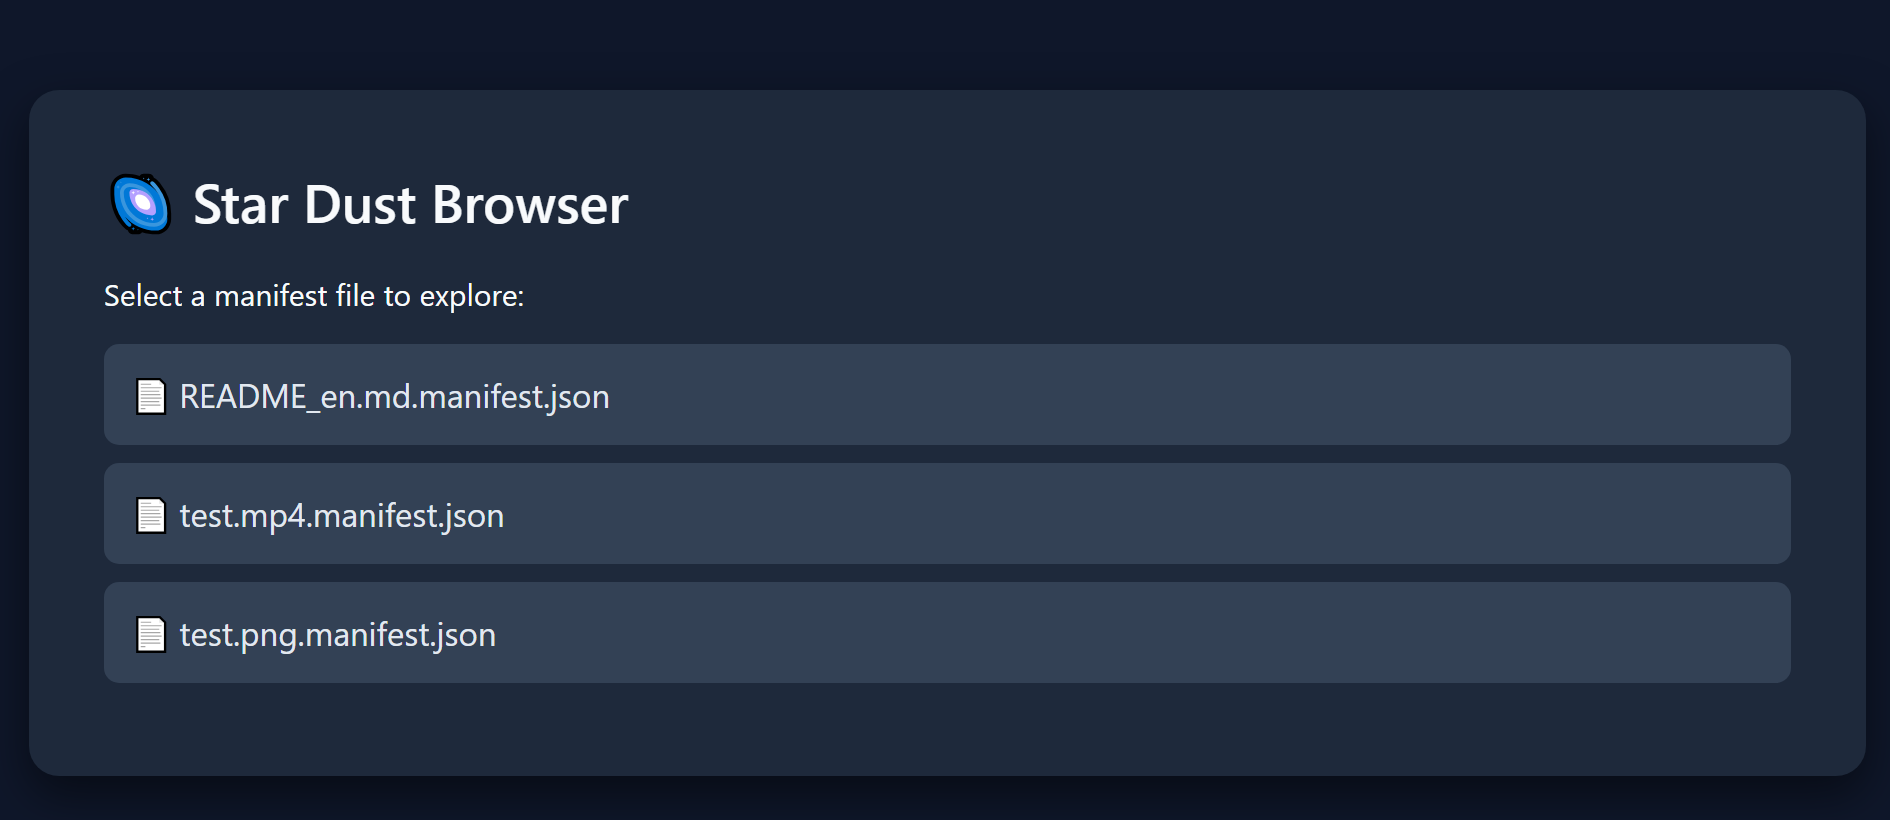
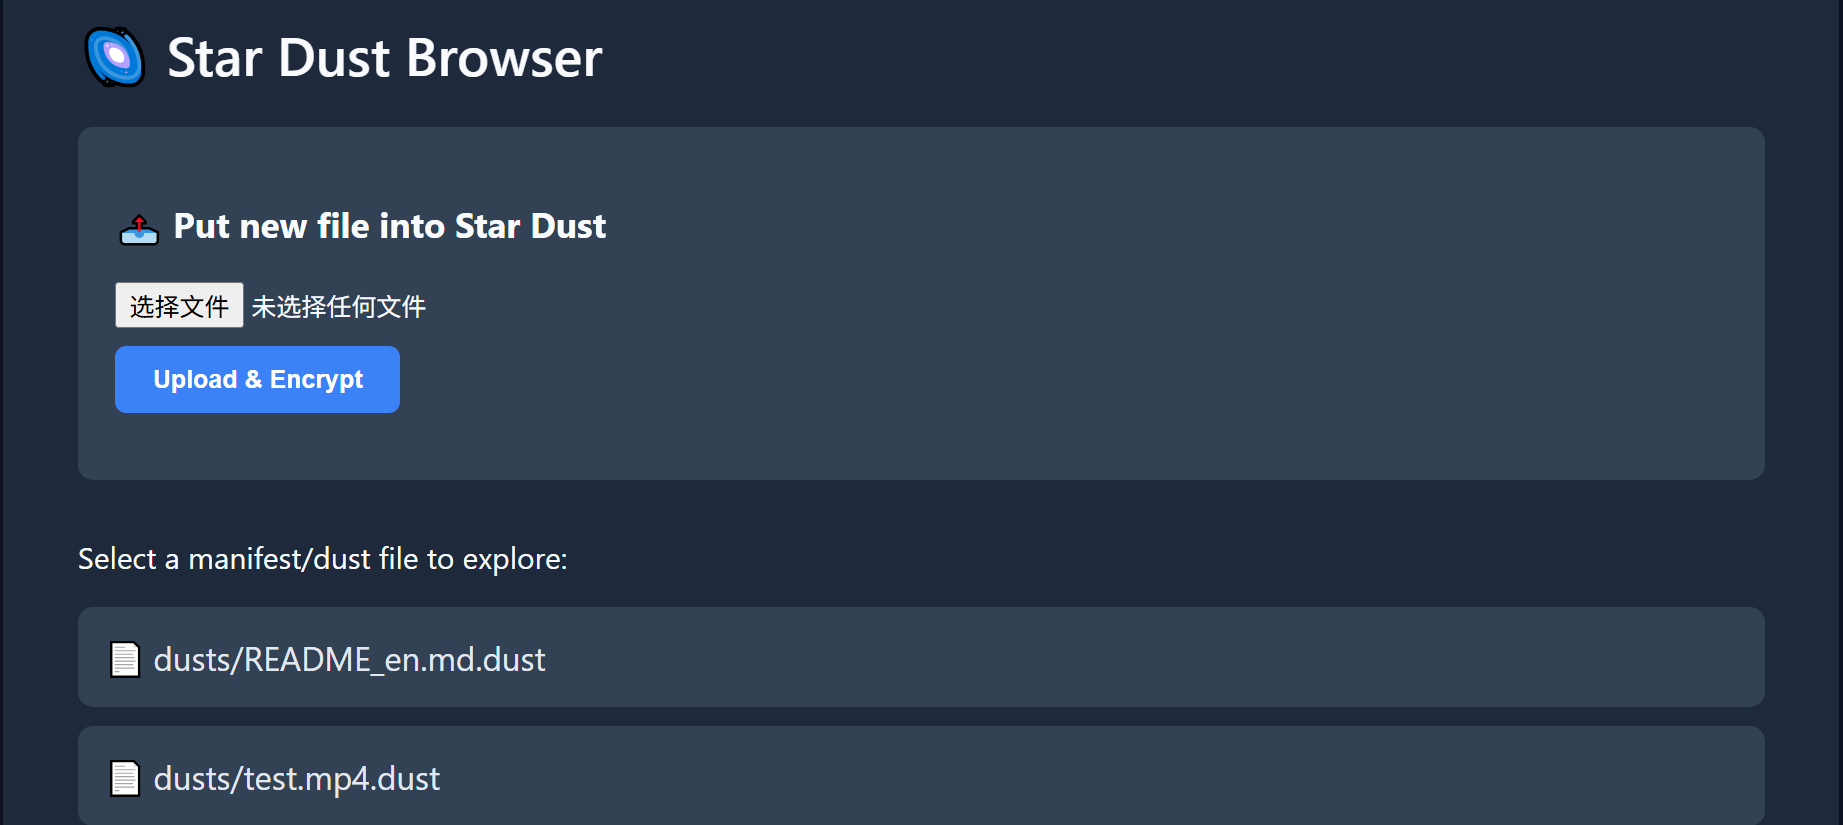
feat: Implement web-based file upload functionality and standardize manifest files to use the .dust extension.

diff --git a/DustBrowser.js b/DustBrowser.js
@@ -5,13 +5,18 @@ import path from 'node:path';
 import axios from 'axios';
 import crypto from 'node:crypto';
 import mime from 'mime';
+import multer from 'multer';
 import { loadOrGenerateKey, decrypt } from './CryptoUtils.js';
+import { uploadToDust } from './FileDustUploader.js';
 
 // ---- Configuration ----
 const PORT = 3000;
 const MAX_CACHE_SIZE = 50; // Cache 50 chunks (approx 4.5MB) to handle fast seeking / range overlapping
 
 let encryptionKey = null;
+let globalPassword = null;
+
+const uploadFolder = multer({ dest: 'uploads/' });
 
 const manifestCache = new Map(); // key: filename, value: { manifest, chunkSize, chunkCache, pendingRequests }
 
@@ -103,16 +108,30 @@ async function getOrInitManifestInfo(manifestFilename) {
 const app = express();
 
 app.get('/', (req, res) => {
-    // List all .manifest.json in current directory
-    const files = fs.readdirSync(process.cwd());
-    const manifests = files.filter(f => f.endsWith('.manifest.json'));
+    // List all .dust / .manifest.json in current directory and dusts directory
+    const manifests = [];
+
+    try {
+        const cwdFiles = fs.readdirSync(process.cwd());
+        const cwdDusts = cwdFiles.filter(f => f.endsWith('.dust') || f.endsWith('.manifest.json'));
+        manifests.push(...cwdDusts);
+    } catch (e) { }
+
+    const dustsDir = path.join(process.cwd(), 'dusts');
+    if (fs.existsSync(dustsDir)) {
+        try {
+            const dFiles = fs.readdirSync(dustsDir);
+            const dDusts = dFiles.filter(f => f.endsWith('.dust') || f.endsWith('.manifest.json'));
+            manifests.push(...dDusts.map(f => `dusts/${f}`));
+        } catch (e) { }
+    }
 
     let listHtml = manifests.map(m => {
         return `<a class="manifest-link" href="/view?m=${encodeURIComponent(m)}">📄 ${m}</a>`;
     }).join('');
 
     if (manifests.length === 0) {
-        listHtml = `<p>No .manifest.json files found in the current directory.</p>`;
+        listHtml = `<p>No .dust files found.</p>`;
     }
 
     res.send(`
@@ -140,6 +159,7 @@ app.get('/', (req, res) => {
                    background: #1e293b; 
                    border-radius: 16px; 
                    box-shadow: 0 10px 25px rgba(0,0,0,0.5); 
+                   margin-bottom: 20px;
                }
                .title { font-size: 1.8rem; font-weight: 600; margin-bottom: 20px; }
                .manifest-link {
@@ -156,17 +176,112 @@ app.get('/', (req, res) => {
                .manifest-link:hover {
                    background: #475569;
                }
+               .upload-box {
+                   background: #334155;
+                   padding: 20px;
+                   border-radius: 8px;
+                   margin-top: 20px;
+               }
+               input[type="file"] { margin-bottom: 10px; }
+               button {
+                   background: #3b82f6; color: white; border: none; padding: 10px 20px; border-radius: 6px; cursor: pointer; font-weight: 600;
+               }
+               button:hover { background: #2563eb; }
+               #upload-status { margin-top: 10px; font-size: 0.9em; color: #a3e635; }
             </style>
         </head>
         <body>
             <div class="container">
                 <div class="title">🌌 Star Dust Browser</div>
-                <p>Select a manifest file to explore:</p>
-                ${listHtml}
+                
+                <div class="upload-box">
+                    <h3>📤 Put new file into Star Dust</h3>
+                    <form id="uploadForm">
+                        <input type="file" id="fileInput" required /><br />
+                        <button type="submit">Upload & Encrypt</button>
+                    </form>
+                    <div id="upload-status"></div>
+                </div>
+
+                <p style="margin-top: 30px;">Select a manifest/dust file to explore:</p>
+                <div id="file-list">
+                    ${listHtml}
+                </div>
             </div>
+
+            <script>
+                document.getElementById('uploadForm').addEventListener('submit', async (e) => {
+                    e.preventDefault();
+                    const fileInput = document.getElementById('fileInput');
+                    const statusDiv = document.getElementById('upload-status');
+                    
+                    if (!fileInput.files.length) return;
+                    
+                    const formData = new FormData();
+                    formData.append('file', fileInput.files[0]);
+                    
+                    statusDiv.textContent = "Uploading and Encrypting (this may take a while)...";
+                    statusDiv.style.color = "#94a3b8";
+
+                    try {
+                        const response = await fetch('/api/upload', {
+                            method: 'POST',
+                            body: formData
+                        });
+                        const result = await response.json();
+                        
+                        if (response.ok) {
+                            statusDiv.textContent = "✅ Upload completed! Generated: " + result.manifestName;
+                            statusDiv.style.color = "#a3e635";
+                            setTimeout(() => window.location.reload(), 1500);
+                        } else {
+                            throw new Error(result.error);
+                        }
+                    } catch (err) {
+                        statusDiv.textContent = "❌ Upload failed: " + err.message;
+                        statusDiv.style.color = "#ef4444";
+                    }
+                });
+            </script>
         </body>
         </html>
     `);
+});
+
+app.post('/api/upload', uploadFolder.single('file'), async (req, res) => {
+    try {
+        if (!req.file) throw new Error("No file uploaded");
+
+        const originalName = req.file.originalname;
+        const tempPath = path.join('uploads', originalName);
+
+        // Rename multer's temp file to original name inside uploads/
+        fs.renameSync(req.file.path, tempPath);
+
+        console.log(`\n☁  Starting upload task for ${originalName}`);
+
+        // Call the engine's upload function
+        const generatedManifest = await uploadToDust(tempPath, globalPassword, 90);
+
+        // Move the generated .dust to dusts/ directory
+        const dustsDir = path.join(process.cwd(), 'dusts');
+        if (!fs.existsSync(dustsDir)) {
+            fs.mkdirSync(dustsDir, { recursive: true });
+        }
+
+        const finalManifestPath = path.join(dustsDir, generatedManifest);
+        fs.renameSync(generatedManifest, finalManifestPath);
+
+        // Clean up the original local file after successful upload to save space
+        if (fs.existsSync(tempPath)) {
+            fs.unlinkSync(tempPath);
+        }
+
+        res.json({ success: true, manifestName: `dusts/${generatedManifest}` });
+    } catch (err) {
+        console.error("Upload error:", err);
+        res.status(500).json({ error: err.message });
+    }
 });
 
 app.get('/view', async (req, res) => {
@@ -175,6 +290,8 @@ app.get('/view', async (req, res) => {
 
     try {
         const info = await getOrInitManifestInfo(m);
+        // Strip both `.enc` and `.dust` or `.manifest.json` correctly if needed,
+        // although info.manifest.filename is usually the original file name + .enc or similar
         const filename = info.manifest.filename.replace(/\.enc$/, '');
         const mimeType = mime.getType(filename) || 'application/octet-stream';
 
@@ -253,8 +370,8 @@ app.get('/view', async (req, res) => {
                     </div>
                 </div>
             </body>
-            </html>
-        `);
+            </html >
+            `);
     } catch (e) {
         res.status(500).send("Error loading manifest: " + e.message);
     }
@@ -274,7 +391,7 @@ app.get('/stream', async (req, res) => {
 
         res.setHeader('Content-Type', mimeType);
         res.setHeader('Accept-Ranges', 'bytes');
-        res.setHeader('Content-Disposition', `inline; filename="${filename}"`);
+        res.setHeader('Content-Disposition', `inline; filename = "${filename}"`);
 
         let start = 0;
         let end = totalSize - 1;
@@ -286,7 +403,7 @@ app.get('/stream', async (req, res) => {
             end = Math.min(requestedEnd, end);
 
             res.status(206);
-            res.setHeader('Content-Range', `bytes ${start}-${end}/${totalSize}`);
+            res.setHeader('Content-Range', `bytes ${start} -${end}/${totalSize}`);
             res.setHeader('Content-Length', end - start + 1);
         } else {
             res.status(200);
@@ -342,6 +459,7 @@ if (args.length < 1) {
 
 loadOrGenerateKey(args[0]).then(({ key }) => {
     encryptionKey = key;
+    globalPassword = args[0]; // Save it for async uploader calls
     app.listen(PORT, () => {
         console.log(`\n=================================================`);
         console.log(`🚀 Dust Browser is proudly serving your manifests!`);

diff --git a/FileDustUploader.js b/FileDustUploader.js
@@ -75,9 +75,9 @@ export const uploadToDust = async (filePath, password, chunkSizeKB = 90) => {
         await fileHandle.close();
     }
 
-    const manifestName = `${fileName}.manifest.json`;
+    const manifestName = `${fileName}.dust`;
     fs.writeFileSync(manifestName, JSON.stringify(manifest, null, 4));
-    console.log(`🎉 全部完成！Manifest已生成: ${manifestName}，原文件可安心删除以节省空间！`);
+    console.log(`🎉 全部完成！已生成 FileDust 星图文件: ${manifestName}，原文件可安心删除以节省空间！`);
     return manifestName;
 };
 

diff --git a/README_en.md b/README_en.md
@@ -8,7 +8,7 @@
 
 Its core philosophy: Disintegrate your massive files (like gigabyte-sized videos or models) into precise, tiny fragments under `100KB` (Dust). After securing them with military-grade AES-256-GCM local encryption, FileDust scatters these fragments into the Arweave/Irys deep web using concurrency throttling. This elegantly capitalizes on the L2 protocol's underlying subsidies for micro-data uploads.
 
-At this point, you only need to keep a tiny `manifest.json` file (a few kilobytes) locally, unlocking vast amounts of physical storage space. When you need to reconstruct the data, using your unique password, all fragments will stream back from the decentralized cosmic cloud, strictly verify their integrity, decrypt on-the-fly, and perfectly reconstruct the original massive file!
+At this point, you only need to keep a tiny `.dust` file (a few kilobytes) locally, unlocking vast amounts of physical storage space. When you need to reconstruct the data, using your unique password, all fragments will stream back from the decentralized cosmic cloud, strictly verify their integrity, decrypt on-the-fly, and perfectly reconstruct the original massive file!
 
 ---
 
@@ -66,8 +66,8 @@ makeItDust();
 import { downloadFromDust } from "./FileDustMerger.js";
 
 async function reconstruct() {
-    // Feed it the feather-light .manifest.json coordinates, and the galaxy will flow in reverse to rebuild it.
-    await downloadFromDust("./videos/secret_movie.mp4.manifest.json", "SuperStrongPassword123!");
+    // Feed it the feather-light .dust coordinates, and the galaxy will flow in reverse to rebuild it.
+    await downloadFromDust("./videos/secret_movie.mp4.dust", "SuperStrongPassword123!");
     
     // 🎉 Your secret_movie.mp4 descends intact into the current directory.
 }
@@ -84,7 +84,7 @@ node DustBrowser.js <Your_Reconstruction_Password>
 ```
 
 👉 **Once running, visit:** `http://localhost:3000`
-The page will mount and render all `*.manifest.json` star maps found in the current directory. Simply click to initiate a multi-threaded "download on the fly, decrypt on the fly, preview on the fly" experience!
+The page will mount and render all `*.dust` star maps found in the current directory. Simply click to initiate a multi-threaded "download on the fly, decrypt on the fly, preview on the fly" experience! It also provides a minimalist upload and chunking interface.
 
 **🌟 Feature Previews:**
 

diff --git a/README.md b/README.md
@@ -8,7 +8,7 @@
 
 它的核心哲学是：将你的巨型文件（如视频、模型集）化整为零，精准切割为不超过 `100KB` 的微小碎片（Dust），经过军工级本地 AES-256GCM 加密颠覆后，利用并发限流技术抛洒入 Arweave/Irys 去中心化深网（从而极其优雅地利用 L2 免费微型数据阈值的底层红利）。
 
-此时，你在本地只需以极低容量保留一张几千字节的「星图索引」（`.manifest.json`），便完成了一场华丽的本地物理空间释放。当需要重构数据时，凭你的唯一密码指令，所有碎片便会从漫天星云中流式汇聚、严格校验、瞬时解密，最终复刻重装出原本的庞然大物！
+此时，你在本地只需以极低容量保留一张几千字节的「星图文件」（`.dust`），便完成了一场华丽的本地物理空间释放。当需要重构数据时，凭你的唯一密码指令，所有碎片便会从漫天星云中流式汇聚、严格校验、瞬时解密，最终复刻重装出原本的庞然大物！
 
 ---
 
@@ -66,8 +66,8 @@ makeItDust();
 import { downloadFromDust } from "./FileDustMerger.js";
 
 async function reconstruct() {
-    // 喂给它那轻如鸿毛的 .manifest.json 坐标，星河自会倒流重组
-    await downloadFromDust("./videos/secret_movie.mp4.manifest.json", "SuperStrongPassword123!");
+    // 喂给它那轻如鸿毛的 .dust 坐标，星河自会倒流重组
+    await downloadFromDust("./videos/secret_movie.mp4.dust", "SuperStrongPassword123!");
     
     // 🎉 你的 secret_movie.mp4 毫发无伤地降临在当前目录
 }
@@ -84,7 +84,7 @@ node DustBrowser.js <你的重组密码>
 ```
 
 👉 **运行后访问:** `http://localhost:3000`
-页面将挂载并渲染当前目录下所有的 `*.manifest.json` 星图，点击即可实现多路并行的「边下、边解密、边预览」效果！
+页面将挂载并渲染当前目录下所有的 `*.dust` 星图，点击即可实现多路并行的「边下、边解密、边预览」效果！且内置了便捷的一键上传与自动切片工具。
 
 **🌟 效果预览：**
 
